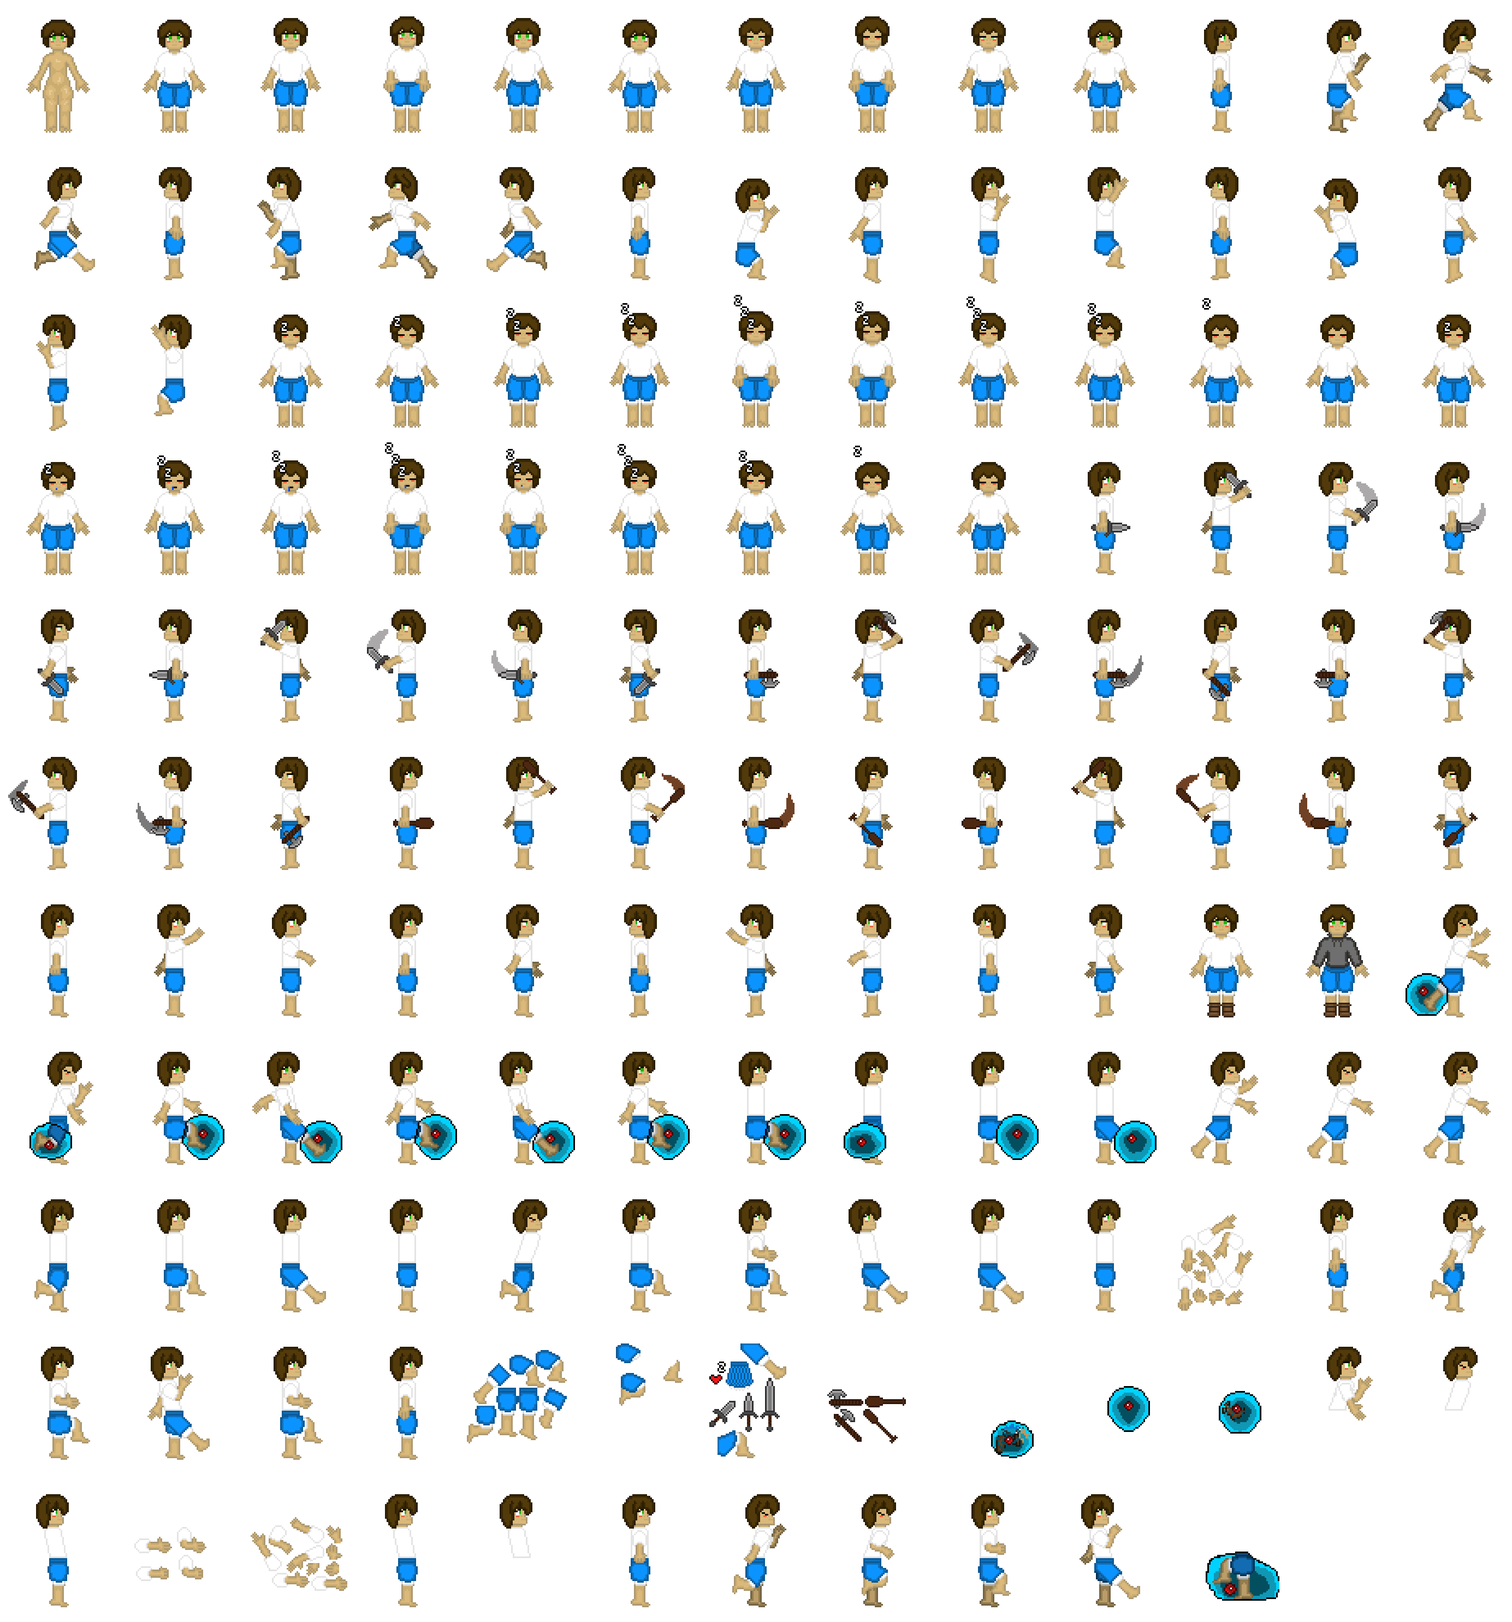
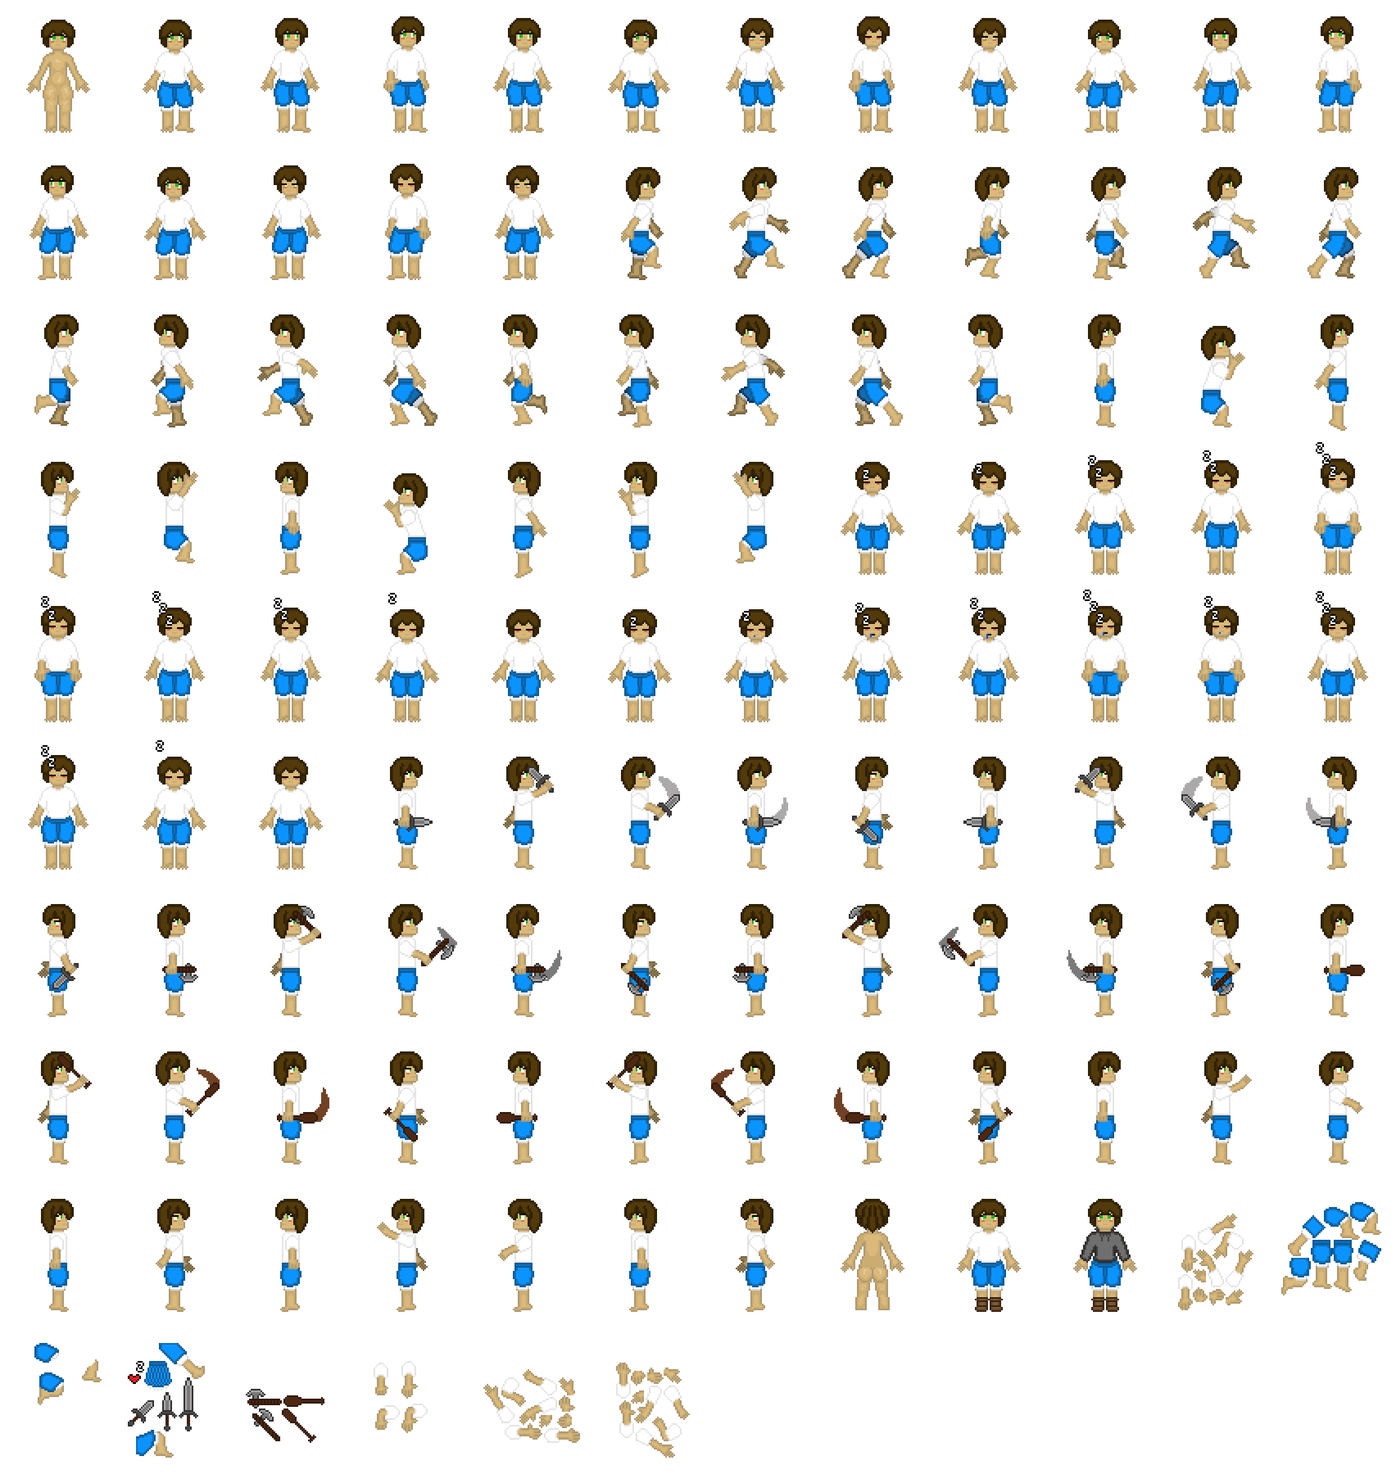
animation improvements
added back left and right idle animations, and improved title scene astetics.

Changed region(s): [[0.0927, 0.0, 0.989, 0.9956], [0.0, 0.0, 0.0618, 0.9956], [0.8036, 0.9333, 0.8654, 0.9956]]

diff --git a/scripts/playerScripts/player.js b/scripts/playerScripts/player.js
@@ -63,55 +63,57 @@ class player extends Phaser.Physics.Arcade.Sprite{
 
     //defines player animations. animations are define on startup based on the players sex
     if(sex === 0){
-    this.anims.create({key: 'pIdle',frames: this.anims.generateFrameNames('malePlayer', { start: 1, end: 9 }),frameRate: 6,repeat: -1});
+    this.anims.create({key: 'pIdleRight',frames: this.anims.generateFrameNames('malePlayer', { start: 1, end: 8 }),frameRate: 6,repeat: -1});
+    this.anims.create({key: 'pIdleLeft',frames: this.anims.generateFrameNames('malePlayer', { start: 9, end: 16 }),frameRate: 6,repeat: -1});
 
-    this.anims.create({key: 'pRight',frames: this.anims.generateFrameNames('malePlayer', { start: 10, end: 13 }),frameRate: 10,repeat: -1});
-    this.anims.create({key: 'pLeft',frames: this.anims.generateFrameNames('malePlayer', { start: 14, end: 17 }),frameRate: 10 ,repeat: -1});
+    this.anims.create({key: 'pRight',frames: this.anims.generateFrameNames('malePlayer', { start: 17, end: 24 }),frameRate: 15,repeat: -1});
+    this.anims.create({key: 'pLeft',frames: this.anims.generateFrameNames('malePlayer', { start: 25, end: 32 }),frameRate: 15 ,repeat: -1});
 
-    this.anims.create({key: 'pJumpRightUp',frames: this.anims.generateFrameNames('malePlayer', { start: 19, end: 20 }),frameRate: 10 ,repeat: 0});
-    this.anims.create({key: 'pJumpRightDown',frames: this.anims.generateFrameNames('malePlayer', { start: 21, end: 22 }),frameRate: 10 ,repeat: 0});
+    this.anims.create({key: 'pJumpRightUp',frames: this.anims.generateFrameNames('malePlayer', { start: 34, end: 35 }),frameRate: 10 ,repeat: 0});
+    this.anims.create({key: 'pJumpRightDown',frames: this.anims.generateFrameNames('malePlayer', { start: 36, end: 37 }),frameRate: 10 ,repeat: 0});
 
-    this.anims.create({key: 'pJumpLeftUp',frames: this.anims.generateFrameNames('malePlayer', { start: 24, end: 25 }),frameRate: 10,repeat: 0});
-    this.anims.create({key: 'pJumpLeftDown',frames: this.anims.generateFrameNames('malePlayer', { start: 26, end: 27 }),frameRate: 10,repeat: 0});
+    this.anims.create({key: 'pJumpLeftUp',frames: this.anims.generateFrameNames('malePlayer', { start: 39, end: 40 }),frameRate: 10,repeat: 0});
+    this.anims.create({key: 'pJumpLeftDown',frames: this.anims.generateFrameNames('malePlayer', { start: 41, end: 42 }),frameRate: 10,repeat: 0});
 
-    this.anims.create({key: 'pSleep',frames: this.anims.generateFrameNames('malePlayer', { start: 28, end: 47 }),frameRate: 1.5,repeat: -1});
+    this.anims.create({key: 'pSleep',frames: this.anims.generateFrameNames('malePlayer', { start: 43, end: 62 }),frameRate: 1.5,repeat: -1});
    
-    this.anims.create({key: 'pAttackKnifeRight',frames: this.anims.generateFrameNames('malePlayer', { start: 48, end: 52 }),frameRate: 12,repeat: -1});
-    this.anims.create({key: 'pAttackKnifeLeft',frames: this.anims.generateFrameNames('malePlayer', { start: 53, end: 57 }),frameRate: 12,repeat: -1});
+    this.anims.create({key: 'pAttackKnifeRight',frames: this.anims.generateFrameNames('malePlayer', { start: 63, end: 67 }),frameRate: 12,repeat: -1});
+    this.anims.create({key: 'pAttackKnifeLeft',frames: this.anims.generateFrameNames('malePlayer', { start: 68, end: 72 }),frameRate: 12,repeat: -1});
 
-    this.anims.create({key: 'pAttackAxeRight',frames: this.anims.generateFrameNames('malePlayer', { start: 58, end: 62 }),frameRate: 9,repeat: -1});
-    this.anims.create({key: 'pAttackAxeLeft',frames: this.anims.generateFrameNames('malePlayer', { start: 63, end: 67 }),frameRate: 9,repeat: -1});
+    this.anims.create({key: 'pAttackAxeRight',frames: this.anims.generateFrameNames('malePlayer', { start: 73, end: 77 }),frameRate: 9,repeat: -1});
+    this.anims.create({key: 'pAttackAxeLeft',frames: this.anims.generateFrameNames('malePlayer', { start: 78, end: 82 }),frameRate: 9,repeat: -1});
 
-    this.anims.create({key: 'pAttackOarRight',frames: this.anims.generateFrameNames('malePlayer', { start: 68, end: 72 }),frameRate: 8,repeat: -1});
-    this.anims.create({key: 'pAttackOarLeft',frames: this.anims.generateFrameNames('malePlayer', { start: 73, end: 77 }),frameRate: 8,repeat: -1});
+    this.anims.create({key: 'pAttackOarRight',frames: this.anims.generateFrameNames('malePlayer', { start: 83, end: 87 }),frameRate: 8,repeat: -1});
+    this.anims.create({key: 'pAttackOarLeft',frames: this.anims.generateFrameNames('malePlayer', { start: 88, end: 92 }),frameRate: 8,repeat: -1});
 
-    this.anims.create({key: 'pAttackUnarmedRight',frames: this.anims.generateFrameNames('malePlayer', { start: 78, end: 82 }),frameRate: 12,repeat: -1});
-    this.anims.create({key: 'pAttackUnarmedLeft',frames: this.anims.generateFrameNames('malePlayer', { start: 83, end: 87 }),frameRate: 12,repeat: -1});
+    this.anims.create({key: 'pAttackUnarmedRight',frames: this.anims.generateFrameNames('malePlayer', { start: 93, end: 97 }),frameRate: 12,repeat: -1});
+    this.anims.create({key: 'pAttackUnarmedLeft',frames: this.anims.generateFrameNames('malePlayer', { start: 98, end: 102 }),frameRate: 12,repeat: -1});
     }else{
-    this.anims.create({key: 'pIdle',frames: this.anims.generateFrameNames('femalePlayer', { start: 1, end: 9 }),frameRate: 6,repeat: -1});
-
-    this.anims.create({key: 'pRight',frames: this.anims.generateFrameNames('femalePlayer', { start: 10, end: 13 }),frameRate: 10,repeat: -1});
-    this.anims.create({key: 'pLeft',frames: this.anims.generateFrameNames('femalePlayer', { start: 14, end: 17 }),frameRate: 10 ,repeat: -1});
-
-    this.anims.create({key: 'pJumpRightUp',frames: this.anims.generateFrameNames('femalePlayer', { start: 19, end: 20 }),frameRate: 10 ,repeat: 0});
-    this.anims.create({key: 'pJumpRightDown',frames: this.anims.generateFrameNames('femalePlayer', { start: 21, end: 22 }),frameRate: 10 ,repeat: 0});
-
-    this.anims.create({key: 'pJumpLeftUp',frames: this.anims.generateFrameNames('femalePlayer', { start: 24, end: 25 }),frameRate: 10,repeat: 0});
-    this.anims.create({key: 'pJumpLeftDown',frames: this.anims.generateFrameNames('femalePlayer', { start: 26, end: 27 }),frameRate: 10,repeat: 0});
-
-    this.anims.create({key: 'pSleep',frames: this.anims.generateFrameNames('femalePlayer', { start: 28, end: 47 }),frameRate: 1.5,repeat: -1});
-   
-    this.anims.create({key: 'pAttackKnifeRight',frames: this.anims.generateFrameNames('femalePlayer', { start: 48, end: 52 }),frameRate: 12,repeat: -1});
-    this.anims.create({key: 'pAttackKnifeLeft',frames: this.anims.generateFrameNames('femalePlayer', { start: 53, end: 57 }),frameRate: 12,repeat: -1});
-
-    this.anims.create({key: 'pAttackAxeRight',frames: this.anims.generateFrameNames('femalePlayer', { start: 58, end: 62 }),frameRate: 9,repeat: -1});
-    this.anims.create({key: 'pAttackAxeLeft',frames: this.anims.generateFrameNames('femalePlayer', { start: 63, end: 67 }),frameRate: 9,repeat: -1});
-
-    this.anims.create({key: 'pAttackOarRight',frames: this.anims.generateFrameNames('femalePlayer', { start: 68, end: 72 }),frameRate: 8,repeat: -1});
-    this.anims.create({key: 'pAttackOarLeft',frames: this.anims.generateFrameNames('femalePlayer', { start: 73, end: 77 }),frameRate: 8,repeat: -1});
-
-    this.anims.create({key: 'pAttackUnarmedRight',frames: this.anims.generateFrameNames('femalePlayer', { start: 78, end: 82 }),frameRate: 12,repeat: -1});
-    this.anims.create({key: 'pAttackUnarmedLeft',frames: this.anims.generateFrameNames('femalePlayer', { start: 83, end: 87 }),frameRate: 12,repeat: -1});
+      this.anims.create({key: 'pIdleRight',frames: this.anims.generateFrameNames('femalePlayer', { start: 1, end: 8 }),frameRate: 6,repeat: -1});
+      this.anims.create({key: 'pIdleLeft',frames: this.anims.generateFrameNames('femalePlayer', { start: 9, end: 16 }),frameRate: 6,repeat: -1});
+  
+      this.anims.create({key: 'pRight',frames: this.anims.generateFrameNames('femalePlayer', { start: 17, end: 24 }),frameRate: 15,repeat: -1});
+      this.anims.create({key: 'pLeft',frames: this.anims.generateFrameNames('femalePlayer', { start: 25, end: 32 }),frameRate: 15 ,repeat: -1});
+  
+      this.anims.create({key: 'pJumpRightUp',frames: this.anims.generateFrameNames('femalePlayer', { start: 34, end: 35 }),frameRate: 10 ,repeat: 0});
+      this.anims.create({key: 'pJumpRightDown',frames: this.anims.generateFrameNames('femalePlayer', { start: 36, end: 37 }),frameRate: 10 ,repeat: 0});
+  
+      this.anims.create({key: 'pJumpLeftUp',frames: this.anims.generateFrameNames('femalePlayer', { start: 39, end: 40 }),frameRate: 10,repeat: 0});
+      this.anims.create({key: 'pJumpLeftDown',frames: this.anims.generateFrameNames('femalePlayer', { start: 41, end: 42 }),frameRate: 10,repeat: 0});
+  
+      this.anims.create({key: 'pSleep',frames: this.anims.generateFrameNames('femalePlayer', { start: 43, end: 62 }),frameRate: 1.5,repeat: -1});
+     
+      this.anims.create({key: 'pAttackKnifeRight',frames: this.anims.generateFrameNames('femalePlayer', { start: 63, end: 67 }),frameRate: 12,repeat: -1});
+      this.anims.create({key: 'pAttackKnifeLeft',frames: this.anims.generateFrameNames('femalePlayer', { start: 68, end: 72 }),frameRate: 12,repeat: -1});
+  
+      this.anims.create({key: 'pAttackAxeRight',frames: this.anims.generateFrameNames('femalePlayer', { start: 73, end: 77 }),frameRate: 9,repeat: -1});
+      this.anims.create({key: 'pAttackAxeLeft',frames: this.anims.generateFrameNames('femalePlayer', { start: 78, end: 82 }),frameRate: 9,repeat: -1});
+  
+      this.anims.create({key: 'pAttackOarRight',frames: this.anims.generateFrameNames('femalePlayer', { start: 83, end: 87 }),frameRate: 8,repeat: -1});
+      this.anims.create({key: 'pAttackOarLeft',frames: this.anims.generateFrameNames('femalePlayer', { start: 88, end: 92 }),frameRate: 8,repeat: -1});
+  
+      this.anims.create({key: 'pAttackUnarmedRight',frames: this.anims.generateFrameNames('femalePlayer', { start: 93, end: 97 }),frameRate: 12,repeat: -1});
+      this.anims.create({key: 'pAttackUnarmedLeft',frames: this.anims.generateFrameNames('femalePlayer', { start: 98, end: 102 }),frameRate: 12,repeat: -1});
     }
   }
     
@@ -176,15 +178,12 @@ class player extends Phaser.Physics.Arcade.Sprite{
       this.setSize(50,210,true);
       this.setVelocityX(0);
 
-      //old code for idle left and right animations.
-      /*if(this.lastKey === "d"){
-        this.anims.play('pIdleRight',true);
-      }else if(this.lastKey === "a"){
-        this.anims.play('pIdleLeft',true);
-      }*/
-
       if(this.animationInAir === false){
-        this.anims.play('pIdle',true);
+        if(this.lastKey === "d"){
+          this.anims.play('pIdleRight',true);
+        }else if(this.lastKey === "a"){
+          this.anims.play('pIdleLeft',true);
+        }
       }
 
       // resets the ilde animation value.

diff --git a/scripts/titleScripts/titleScreen.js b/scripts/titleScripts/titleScreen.js
@@ -84,10 +84,6 @@ class titleScreen extends Phaser.Scene {
             let that = this;
             this.anims.create({key: 'noActive',frames: this.anims.generateFrameNames('no', { start: 1, end: 1 }),frameRate: 1,repeat: -1});
             this.anims.create({key: 'noInActive',frames: this.anims.generateFrameNames('no', { start: 0, end: 0 }),frameRate: 1,repeat: -1});
-            this.anims.create({key: 'yesActive',frames: this.anims.generateFrameNames('yes', { start: 1, end: 1 }),frameRate: 1,repeat: -1});
-            this.anims.create({key: 'yesInActive',frames: this.anims.generateFrameNames('yes', { start: 0, end: 0 }),frameRate: 1,repeat: -1});
-            this.anims.create({key: 'femaleActive',frames: this.anims.generateFrameNames('femaleSexSelectIcons', { start: 1, end: 1 }),frameRate: 1,repeat: -1});
-            this.anims.create({key: 'femaleInActive',frames: this.anims.generateFrameNames('femaleSexSelectIcons', { start: 0, end: 0 }),frameRate: 1,repeat: -1});
             this.anims.create({key: 'backroundLoop',frames: this.anims.generateFrameNames('backgroundForest', { start: 0, end: 8 }),frameRate: 4,repeat: -1});
             this.anims.create({key: 'titleLogoLoop1',frames: this.anims.generateFrameNames('titleLogo', { start: 0, end: 10 }),frameRate: 4,repeat: 0});
             this.anims.create({key: 'titleLogoLoop2',frames: this.anims.generateFrameNames('titleLogo', { start: 11, end: 14 }),frameRate: 4,repeat: 0});
@@ -150,17 +146,16 @@ class titleScreen extends Phaser.Scene {
 
             this.maleIcon = new maleIcon(this,350, 500);
 
-            //this.maleIcon = this.add.sprite(350, 500, "maleSexSelectIcons").setInteractive();
-            //this.maleIcon.visible = false;
+            this.femaleIcon = new femaleIcon(this,550, 500);
 
-            this.femaleIcon = this.add.sprite(550, 500, "femaleSexSelectIcons").setInteractive();
-            this.femaleIcon.visible = false;
+            this.yes = new yes(this,550, 500);
+
 
             this.no = this.add.sprite(350, 500, "no").setInteractive();
             this.no. visible = false;
 
-            this.yes = this.add.sprite(550, 500, "yes").setInteractive();
-            this.yes. visible = false;
+           // this.yes = this.add.sprite(550, 500, "yes").setInteractive();
+            //this.yes. visible = false;
 
             
 
@@ -176,7 +171,11 @@ class titleScreen extends Phaser.Scene {
 
             this.back.setupBack();
 
-            this.maleIcon.setupmaleIcon();
+            this.maleIcon.setupMaleIcon();
+
+            this.femaleIcon.setupFemaleIcon();
+
+            this.yes.setupYes();
 
 
 
@@ -202,79 +201,7 @@ class titleScreen extends Phaser.Scene {
             // should change sound effects. maybe key binds or something of the like.
 
 
-        this.yes.on('pointerdown', function (pointer) {
-
-            
-            that.clearSlotData();
-
-            let playerSaveSlotData = {
-                saveSlot:that.selectedSlotToBeDeleted,
-                currency: 0,
-                bestiaryCompletionPercent: 0,
-                playerHealthUpgrades: 0,
-             };
-
-             let playerBestiaryData = {
-                blueSlime:0,
-                largeBlueSlime:0,
-                axolotlMale:0,
-                axolotlfemale:0,
-                largePurpleSlugFemale:0,
-                largePurpleSlugMale:0,
-                rabbitfemale:0,
-                rabbitMale:0,
-                cowFemale:0,
-                cowMale:0,
-                blueSlimeHumanoidFemale:0,
-                blueSlimeHumanoidFemaleLarge:0,
-                sharkFemale:0,
-                sharkMale:0
-             };
-
-             let playerSkillsData = {
-                jump:0,
-                dash:0,
-                strength:0,
-                mimic:0,
-                looting:0
-             };
-
-             let gameFlags = {
-                containerFlags: []
-
-             };
-
-             let playerDataObject = {
-                currentHp: null,
-                playerMaxHp: null,
-                inventoryArray: null,
-                playerBestiaryData: playerBestiaryData,
-                playerSkillsData: playerSkillsData,
-                playerSaveSlotData: playerSaveSlotData,
-                flagValues: gameFlags,
-            };
-            that.activateFunctions.saveGameFile(
-                that.warpToX,
-                that.warpToY,
-                that.playerSex,
-                that.playerLocation,
-                playerDataObject
-               );
-
-               that.sceneTextBox.hideText(false);
-                that.sceneTextBox.textBoxProfileImage.visible = false;
-                that.sceneTextBox.visible = false;
-
-                that.yes.visible = false;
-                that.no.visible = false;
-                that.isInDelete = false;
-
-                that.back.visible = true;
-                that.isInSlotSelectLoad = true;
-                
-                that.showSaveSlots(true,true);
-           
-        });
+        
 
         this.no.on('pointerdown', function (pointer) {
 

diff --git a/scripts/titleScripts/yes.js b/scripts/titleScripts/yes.js
@@ -1,0 +1,103 @@
+class yes extends Phaser.Physics.Arcade.Sprite{
+    // every class needs constructor
+    constructor(scene, xPos, yPos){
+      //super() calls the constructor() from the parent class we are extending
+      super(scene, xPos, yPos, 'femaleSexSelectIcons');
+      //then we add new instance into the scene. when ising this inside a class definition is refering to the instance of the class
+      //so here in the subclass of sprite its refering to the image object we just made. 
+        scene.add.existing(this);
+        this.setDepth(50);
+        this.setScrollFactor(0);
+        this.visible = false;
+        this.setInteractive();
+      
+        this.anims.create({key: 'yesActive',frames: this.anims.generateFrameNames('yes', { start: 1, end: 1 }),frameRate: 1,repeat: -1});
+        this.anims.create({key: 'yesInActive',frames: this.anims.generateFrameNames('yes', { start: 0, end: 0 }),frameRate: 1,repeat: -1});
+        
+        
+        this.anims.play('yesInActive');
+
+        this.scene = scene;
+      
+    }
+
+    setupYes(){
+
+        let that = this;
+
+        this.on('pointerdown', function (pointer) {
+
+            
+            that.scene.clearSlotData();
+
+            let playerSaveSlotData = {
+                saveSlot:that.scene.selectedSlotToBeDeleted,
+                currency: 0,
+                bestiaryCompletionPercent: 0,
+                playerHealthUpgrades: 0,
+             };
+
+             let playerBestiaryData = {
+                blueSlime:0,
+                largeBlueSlime:0,
+                axolotlMale:0,
+                axolotlfemale:0,
+                largePurpleSlugFemale:0,
+                largePurpleSlugMale:0,
+                rabbitfemale:0,
+                rabbitMale:0,
+                cowFemale:0,
+                cowMale:0,
+                blueSlimeHumanoidFemale:0,
+                blueSlimeHumanoidFemaleLarge:0,
+                sharkFemale:0,
+                sharkMale:0
+             };
+
+             let playerSkillsData = {
+                jump:0,
+                dash:0,
+                strength:0,
+                mimic:0,
+                looting:0
+             };
+
+             let gameFlags = {
+                containerFlags: []
+
+             };
+
+             let playerDataObject = {
+                currentHp: null,
+                playerMaxHp: null,
+                inventoryArray: null,
+                playerBestiaryData: playerBestiaryData,
+                playerSkillsData: playerSkillsData,
+                playerSaveSlotData: playerSaveSlotData,
+                flagValues: gameFlags,
+            };
+            that.scene.activateFunctions.saveGameFile(
+                that.scene.warpToX,
+                that.scene.warpToY,
+                that.scene.playerSex,
+                that.scene.playerLocation,
+                playerDataObject
+               );
+
+               that.scene.sceneTextBox.hideText(false);
+                that.scene.sceneTextBox.textBoxProfileImage.visible = false;
+                that.scene.sceneTextBox.visible = false;
+
+                that.visible = false;
+                that.scene.no.visible = false;
+                that.scene.isInDelete = false;
+
+                that.scene.back.visible = true;
+                that.scene.isInSlotSelectLoad = true;
+                
+                that.scene.showSaveSlots(true,true);
+           
+        });
+
+    }
+}

diff --git a/scripts/titleScripts/femaleIcon.js b/scripts/titleScripts/femaleIcon.js
@@ -11,8 +11,8 @@ class femaleIcon extends Phaser.Physics.Arcade.Sprite{
         this.visible = false;
         this.setInteractive();
       
-        this.anims.create({key: 'femaleActive',frames: this.anims.generateFrameNames('maleSexSelectIcons', { start: 1, end: 1 }),frameRate: 1,repeat: -1});
-        this.anims.create({key: 'femaleInActive',frames: this.anims.generateFrameNames('maleSexSelectIcons', { start: 0, end: 0 }),frameRate: 1,repeat: -1});
+        this.anims.create({key: 'femaleActive',frames: this.anims.generateFrameNames('femaleSexSelectIcons', { start: 1, end: 1 }),frameRate: 1,repeat: -1});
+        this.anims.create({key: 'femaleInActive',frames: this.anims.generateFrameNames('femaleSexSelectIcons', { start: 0, end: 0 }),frameRate: 1,repeat: -1});
             
         this.anims.play('femaleInActive');
 

diff --git a/scripts/titleScripts/maleIcon.js b/scripts/titleScripts/maleIcon.js
@@ -20,7 +20,7 @@ class maleIcon extends Phaser.Physics.Arcade.Sprite{
       
     }
 
-    setupmaleIcon(){
+    setupMaleIcon(){
 
         let that = this;
 
